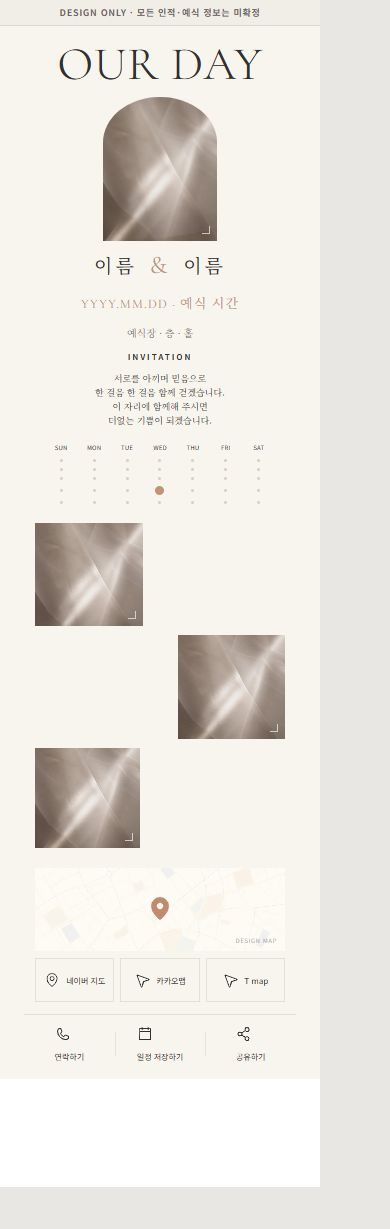
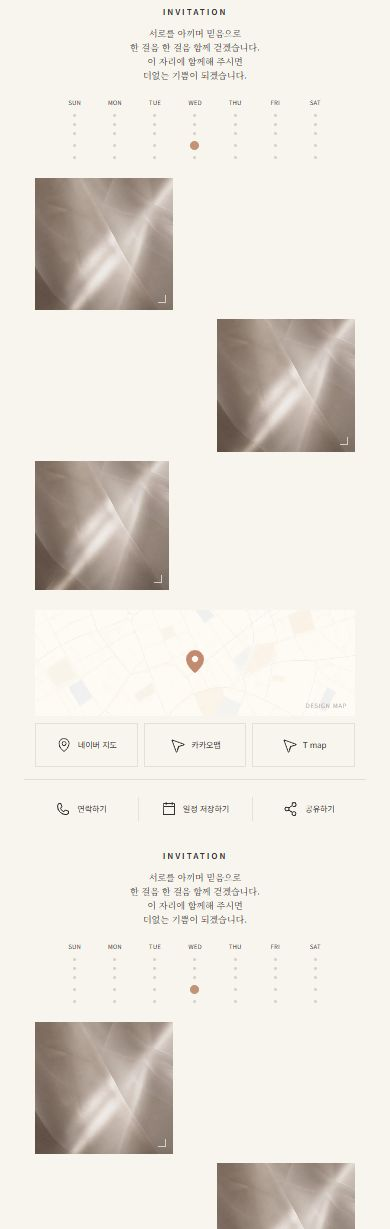
fix: 청첩장 아이콘 정렬 보정

diff --git a/src/styles.css b/src/styles.css
@@ -133,11 +133,12 @@ button:focus-visible, a:focus-visible { outline: 2px solid #315174; outline-offs
 .venue-copy strong { font-family: "Noto Serif KR Variable", serif; font-size: 10px; font-weight: 520; }
 .venue-copy span { color: #88817b; font-size: 8px; }
 .action-button { display: inline-flex; min-width: 0; min-height: 44px; align-items: center; justify-content: center; gap: 6px; color: inherit; background: transparent; border: 0; cursor: pointer; }
-.action-button svg { width: 16px; height: 16px; flex: 0 0 auto; }
+.action-button > svg { display: block; width: 16px; height: 16px; flex: 0 0 auto; }
+.action-button > span { min-width: 0; }
 .route-actions { display: grid; grid-template-columns: repeat(3, 1fr); gap: 6px; margin-top: 7px; }
 .route-actions .action-button { border: 1px solid rgba(72,68,64,.12); font-size: 8px; }
 .bottom-actions { display: grid; grid-template-columns: repeat(3, 1fr); margin-inline: 24px; padding: 7px 0 13px; border-top: 1px solid rgba(62,59,56,.12); }
-.bottom-actions .action-button { position: relative; display: grid; gap: 4px; font-size: 8px; }
+.bottom-actions .action-button { position: relative; display: inline-flex; gap: 6px; font-size: 8px; line-height: 1; }
 .bottom-actions .action-button + .action-button::before { content: ""; position: absolute; left: 0; top: 10px; bottom: 10px; width: 1px; background: rgba(62,59,56,.1); }
 
 .pastel-invitation { --paper: #fffdf9; --ink: #233d60; --blue: #d9e7f3; --blush: #f2dcdf; background: var(--paper); color: var(--ink); }
@@ -153,9 +154,13 @@ button:focus-visible, a:focus-visible { outline: 2px solid #315174; outline-offs
 .pastel-invitation .greeting { padding-top: 14px; padding-bottom: 12px; border-top: 1px solid #f4f1ed; }
 .pastel-invitation .greeting .eyebrow { color: #8091a5; }
 .save-cards { display: grid; grid-template-columns: 1fr 1.35fr; gap: 0; padding-top: 0; padding-bottom: 8px; }
-.save-cards .action-button { min-height: 73px; padding: 10px 9px; align-content: center; color: #294765; border: 1px solid #edf0f2; }
+.save-cards .action-button { min-height: 73px; padding: 10px 9px; color: #294765; border: 1px solid #edf0f2; }
 .save-cards .action-button:nth-child(2) { background: var(--blue); }
 .save-cards .action-button span { display: grid; gap: 4px; text-align: left; }
+.save-cards .save-date-action { flex-direction: column; gap: 5px; }
+.save-cards .save-date-action span { text-align: center; }
+.save-cards .save-calendar-action { display: grid; grid-template-columns: 16px minmax(0, 1fr) 12px; justify-content: stretch; column-gap: 7px; }
+.save-cards .save-calendar-action .action-trailing-icon { width: 12px; height: 12px; }
 .save-cards strong { font-family: "Noto Serif KR Variable", serif; font-size: 8px; font-weight: 550; }
 .save-cards small { color: #77889b; font-size: 6px; }
 .pastel-gallery { display: grid; grid-template-columns: 1.25fr .88fr; grid-template-rows: 94px 94px; gap: 3px; padding-top: 0; padding-bottom: 18px; }

diff --git a/src/App.jsx b/src/App.jsx
@@ -2,6 +2,7 @@ import { useEffect, useMemo, useState } from "react";
 import {
   Bus,
   CalendarBlank,
+  CaretRight,
   Car,
   Check,
   Copy,
@@ -83,11 +84,12 @@ function Greeting() {
   );
 }
 
-function ActionButton({ icon: Icon, children, onClick, className = "" }) {
+function ActionButton({ icon: Icon, trailingIcon: TrailingIcon, children, onClick, className = "" }) {
   return (
     <button className={`action-button ${className}`} type="button" onClick={onClick}>
-      <Icon aria-hidden="true" weight="light" />
+      <Icon className="action-icon" aria-hidden="true" weight="light" />
       <span>{children}</span>
+      {TrailingIcon && <TrailingIcon className="action-trailing-icon" aria-hidden="true" weight="light" />}
     </button>
   );
 }
@@ -163,10 +165,10 @@ function QuietInvitation({ notify }) {
 function SaveCards({ notify }) {
   return (
     <section className="save-cards section-pad" aria-label="날짜와 캘린더 저장">
-      <ActionButton icon={CalendarBlank} onClick={() => notify("실제 예식 날짜가 확정된 후 사용할 수 있어요.")}>
+      <ActionButton icon={CalendarBlank} className="save-date-action" onClick={() => notify("실제 예식 날짜가 확정된 후 사용할 수 있어요.")}>
         <strong>날짜 기억하기</strong><small>소중한 날을 기억해 주세요.</small>
       </ActionButton>
-      <ActionButton icon={CalendarBlank} onClick={() => notify("실제 예식 날짜가 확정된 후 사용할 수 있어요.")}>
+      <ActionButton icon={CalendarBlank} trailingIcon={CaretRight} className="save-calendar-action" onClick={() => notify("실제 예식 날짜가 확정된 후 사용할 수 있어요.")}>
         <strong>캘린더에 저장하기</strong><small>iCalendar 파일 준비 예정</small>
       </ActionButton>
     </section>

diff --git a/design-qa.md b/design-qa.md
@@ -45,6 +45,15 @@ Focused regions were not separately cropped because the 390px source and impleme
 - Pastel: 390 × 1061, no horizontal overflow, fonts loaded, all six images loaded.
 - No actionable P0, P1, or P2 visual mismatch remains.
 
+### Icon alignment correction
+
+- Evidence before the fix: `artifacts/qa/icon-alignment-before-actions-390.png` and `artifacts/qa/icon-alignment-before-pastel-390.png`.
+- Root cause: `.bottom-actions .action-button` changed the shared inline action control into an implicit two-row grid. Its auto rows stretched through the 44px touch target, so the icon and label read as vertically detached instead of sharing the single baseline used by both source references.
+- Fix: restored inline flex alignment for all footer actions, made SVG boxes block-level and deterministic, and matched the two Pastel save-card layouts to the reference: centered vertical on the left and icon/text/chevron on the right.
+- Browser geometry after the fix: every route and footer action content group was centered on both axes with a measured center delta between `-0.01px` and `0px`; both save cards measured `0px` vertical center delta.
+- Accepted focused screenshots: `artifacts/qa/icon-alignment-after-actions-quiet-390.png` and `artifacts/qa/icon-alignment-after-pastel-390.png`.
+- Quiet's canonical full-page screenshot was recaptured after the correction. Pastel's focused current-state screenshot and post-fix DOM geometry are the acceptance evidence for this alignment-only change; the existing full-page baseline remains the broader composition reference.
+
 ## Responsive and interaction verification
 
 - Browser widths checked for both variants: 360, 390, 430, 768, 1440px.
